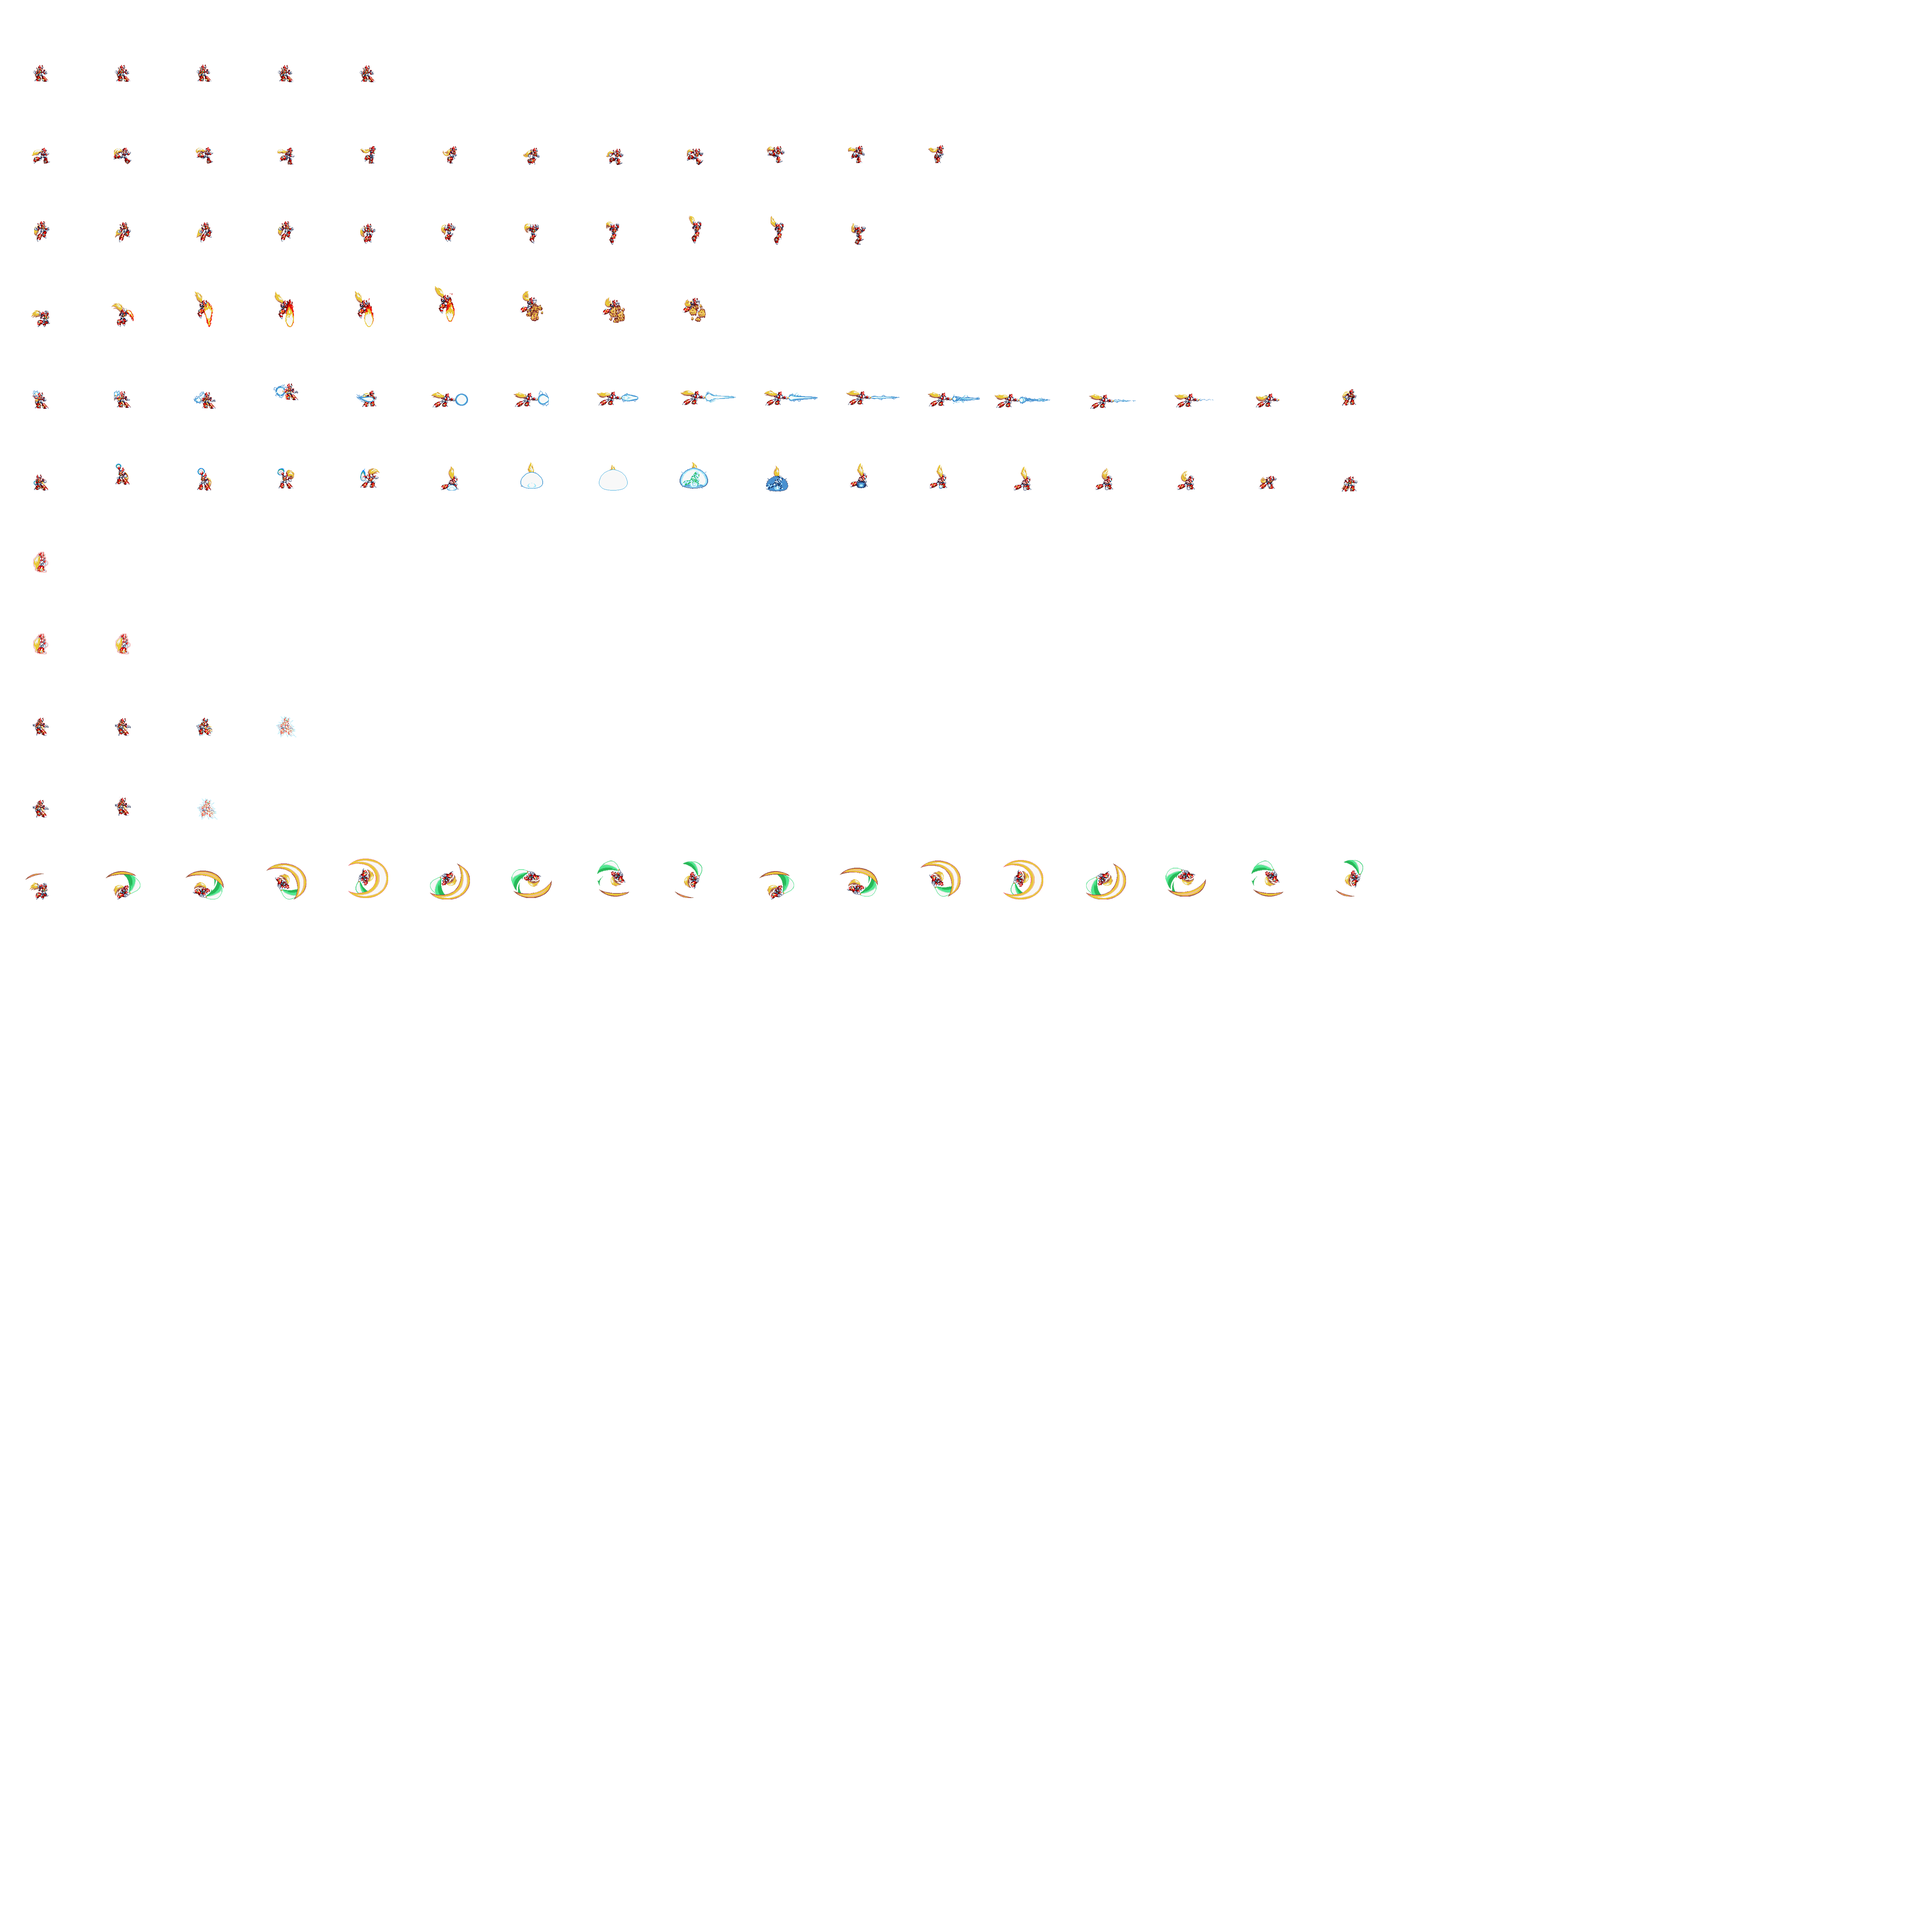
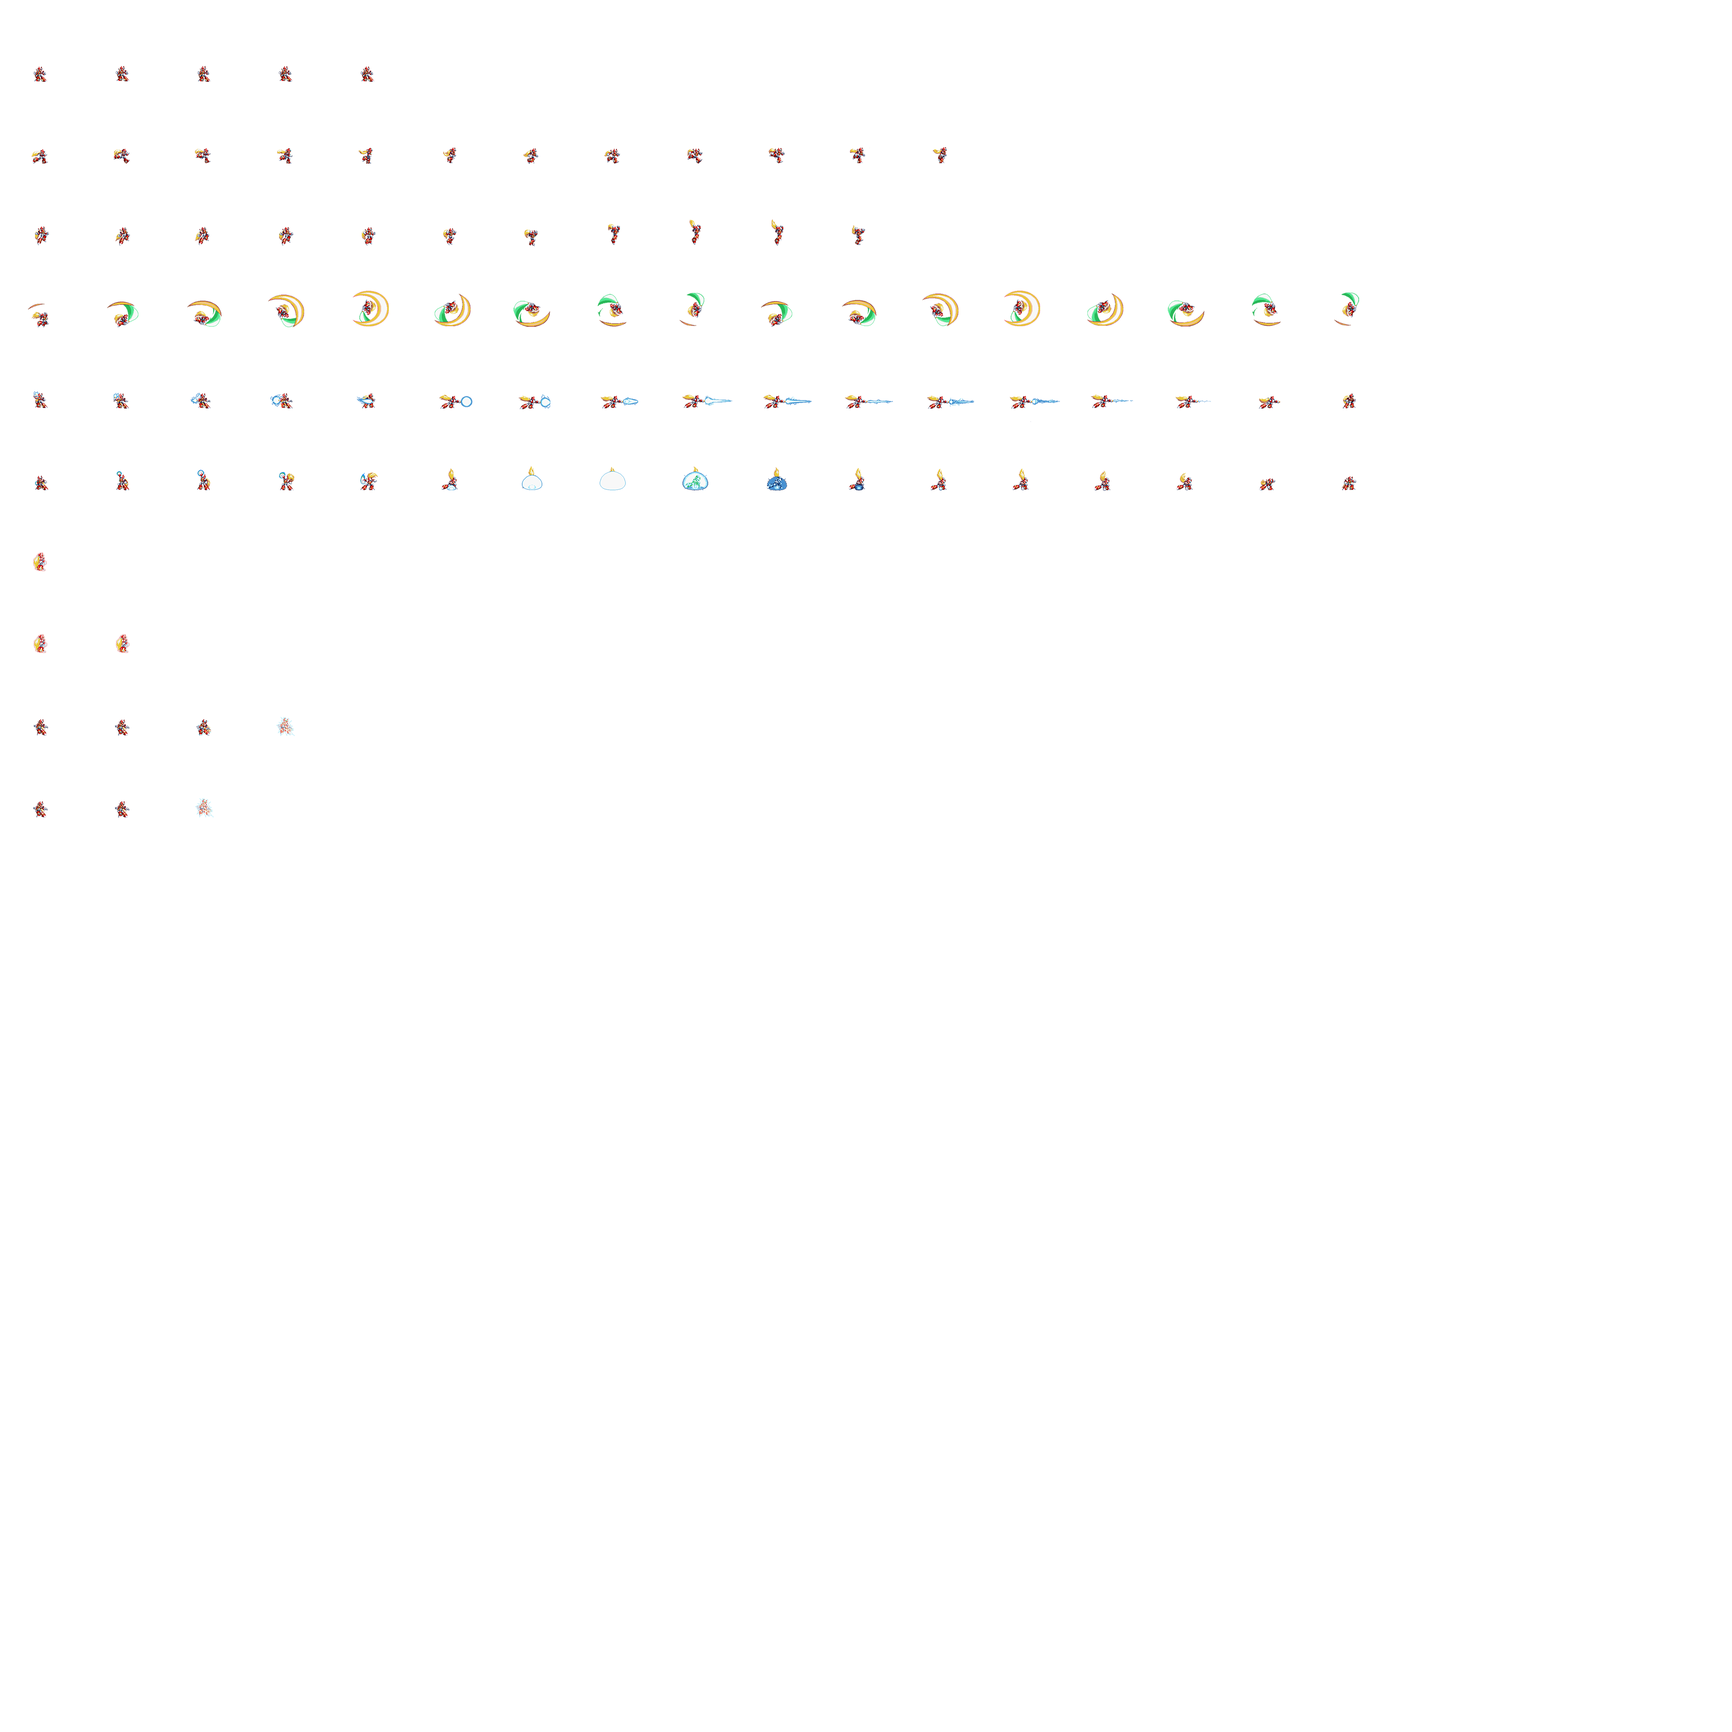
fixed zero sheet

diff --git a/UltraBrawl/UltraBrawl/Characters/Zero.cs b/UltraBrawl/UltraBrawl/Characters/Zero.cs
@@ -39,14 +39,14 @@ namespace UltraBrawl
             base.pcSegmentEndings.Add(new Point(4, 0)); //idle
             base.pcSegmentEndings.Add(new Point(11, 1)); //running
             base.pcSegmentEndings.Add(new Point(10, 2)); //jumping
-            base.pcSegmentEndings.Add(new Point(8, 3)); //jumpkick
+            base.pcSegmentEndings.Add(new Point(16, 3)); //jumpkick
             base.pcSegmentEndings.Add(new Point(16, 4)); //punch
             base.pcSegmentEndings.Add(new Point(16, 5)); //kick
             base.pcSegmentEndings.Add(new Point(0, 6)); //block
             base.pcSegmentEndings.Add(new Point(1, 6)); //blockhit
             base.pcSegmentEndings.Add(new Point(3, 7)); //hit
             base.pcSegmentEndings.Add(new Point(2, 8)); //knockdown
-            base.pcSegmentEndings.Add(new Point(16, 9)); //charging
+            base.pcSegmentEndings.Add(new Point(4, 0)); //"charging"
             base.pcSegmentEndings.Add(new Point(4, 10)); //superIdle
             base.pcSegmentEndings.Add(new Point(5, 11)); //superRunning
             base.pcSegmentEndings.Add(new Point(9, 12)); //superJumping
@@ -61,14 +61,14 @@ namespace UltraBrawl
             base.pcSegmentTimings.Add(70); //idle
             base.pcSegmentTimings.Add(60); //running
             base.pcSegmentTimings.Add(120); //jumping
-            base.pcSegmentTimings.Add(50); //jumpkick
+            base.pcSegmentTimings.Add(25); //jumpkick
             base.pcSegmentTimings.Add(30); //punch
             base.pcSegmentTimings.Add(40); //kick
             base.pcSegmentTimings.Add(50); //block
             base.pcSegmentTimings.Add(100); //blockhit
             base.pcSegmentTimings.Add(200); //hit
             base.pcSegmentTimings.Add(60); //knockdown
-            base.pcSegmentTimings.Add(60); //charging
+            base.pcSegmentTimings.Add(70); //charging
             base.pcSegmentTimings.Add(50); //superIdle
             base.pcSegmentTimings.Add(80); //superRunning
             base.pcSegmentTimings.Add(120); //superJumping
@@ -112,7 +112,6 @@ namespace UltraBrawl
         }
         public override void chargedTwo()
         {
-            fire = true;
         }
 
     }
